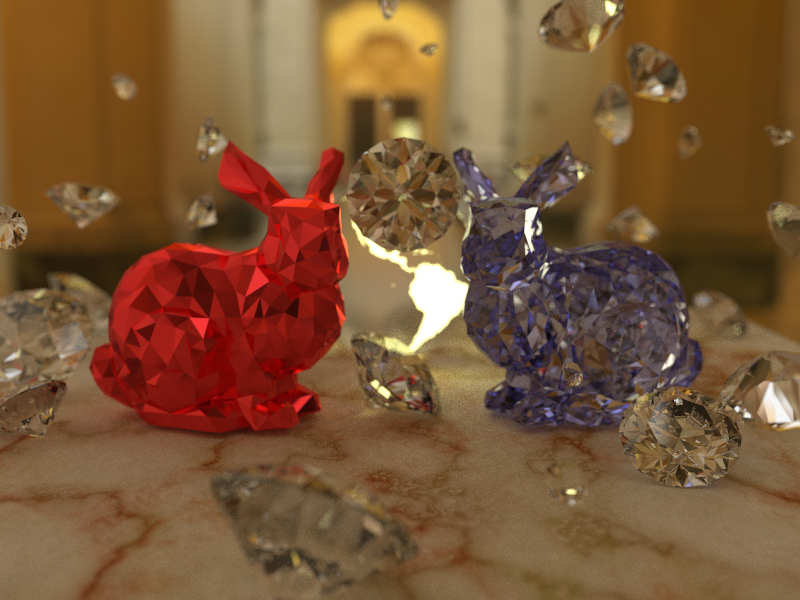
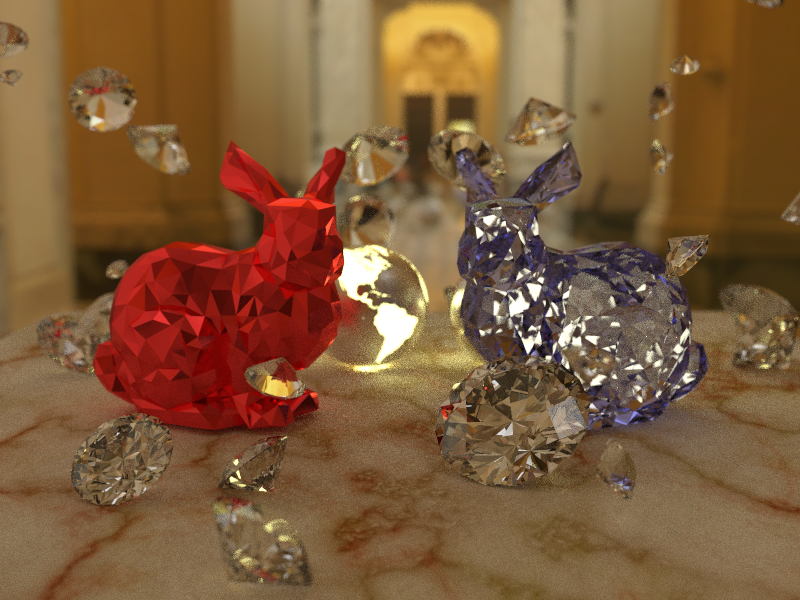
Add Sphere random

diff --git a/src/main.rs b/src/main.rs
@@ -42,13 +42,13 @@ fn render() {
     //let mut imgbuf = image::ImageBuffer::new(1920, 1080);
 
     let camera = Camera::new(
-        Vector3::new(-0.5, 2.5, 9.0),// eye
+        Vector3::new(0.0, 2.5, 9.0),// eye
         Vector3::new(0.0, 1.0, 0.0),// target
         Vector3::new(0.0, 1.0, 0.0).normalize(),// y_up
         17.0,// fov
 
         LensShape::Circle,// lens shape
-        0.15,// * 0.0,// aperture
+        0.1,// * 0.0,// aperture
         7.5// focus_distance
     );
 
@@ -93,20 +93,10 @@ fn render() {
                 }
             }),*/
 
-            Box::new(Sphere {
-                center: Vector3::new(0.0, 1.0, -2.0),
-                radius: 1.0,
-                material: Material {
-                    surface: SurfaceType::GGXReflection { refractive_index: 1.2 },
-                    albedo: Texture::white(),
-                    emission: Texture::new("textures/2d/earth_inverse_2048.jpg", Color::new(3.0, 3.0, 1.1)),
-                    roughness: Texture::from_color(Color::from_one(0.3)),
-                },
-            }),
-
+            // 固定のダイヤモンド
             Box::new(BvhMesh::from_mesh(ObjLoader::load(
                 "models/dia/dia.obj",
-                Matrix44::translate(0.0, 2.0, 0.0) * Matrix44::scale_linear(1.0) *Matrix44::rotate_x(90.0.to_radians()),
+                Matrix44::translate(1.0, 0.0, 1.5) * Matrix44::scale_linear(1.2) * Matrix44::rotate_y(-0.5) * Matrix44::rotate_x(40.35.to_radians()),
                 Material {
                     surface: SurfaceType::GGXReflection { refractive_index: 2.42 },
                     albedo: Texture::from_color(Color::new(1.0, 1.0, 1.0)),
@@ -141,11 +131,33 @@ fn render() {
         ),
     };
 
-    let seed: &[_] = &[1, 9, 9, 2];
+    let seed: &[_] = &[1992, 6, 23, 12321];
     let mut rng: StdRng = SeedableRng::from_seed(seed);
 
+    // 光る地球儀
     let mut count = 0;
-    while count < 20 {
+    while count < 3 {
+        let px = rng.gen_range(-0.5, 2.5);
+        let pz = rng.gen_range(-3.0, 2.0);
+        let r = rng.gen_range(0.5, 0.7);
+
+        if scene.add_with_check_collisions(Box::new(Sphere {
+            center: Vector3::new(px, r, pz),
+            radius: r,
+            material: Material {
+                surface: SurfaceType::GGX,
+                albedo: Texture::white(),
+                emission: Texture::new("textures/2d/earth_inverse_2048.jpg", Color::new(3.0, 3.0, 1.1)),
+                roughness: Texture::from_color(Color::from_one(rng.gen_range(0.1, 0.5))),
+            },
+        })) {
+            count += 1;
+        }
+    }
+
+    // 床に落ちているダイヤモンド
+    count = 0;
+    while count < 15 {
         let px = rng.gen_range(-4.5, 4.5);
         let py = 0.0;
         let pz = rng.gen_range(-4.5, 4.5);
@@ -166,6 +178,7 @@ fn render() {
         }
     }
 
+    // 空中浮遊しているダイヤモンド
     count = 0;
     while count < 30 {
         let px = rng.gen_range(-4.5, 4.5);

diff --git a/src/scene.rs b/src/scene.rs
@@ -312,7 +312,7 @@ impl Scene {
             self.elements.push(element);
             true
         } else {
-            println!("add_with_check_collisions: collisions!");
+            println!("add_with_check_collisions: collisions!: {:?}", aabb);
             false
         }
     }

diff --git a/src/config.rs b/src/config.rs
@@ -9,7 +9,7 @@ pub const INF: f64 = 1e100;
 
 pub const DEBUG_BOUNCE_LIMIT: u32 = 3;
 pub const PATHTRACING_BOUNCE_LIMIT: u32 = 10;
-pub const PATHTRACING_SAMPLING: u32 = 100;//30;
+pub const PATHTRACING_SAMPLING: u32 = 30;
 
 pub const SUPERSAMPLING: u32 = 2;
 
